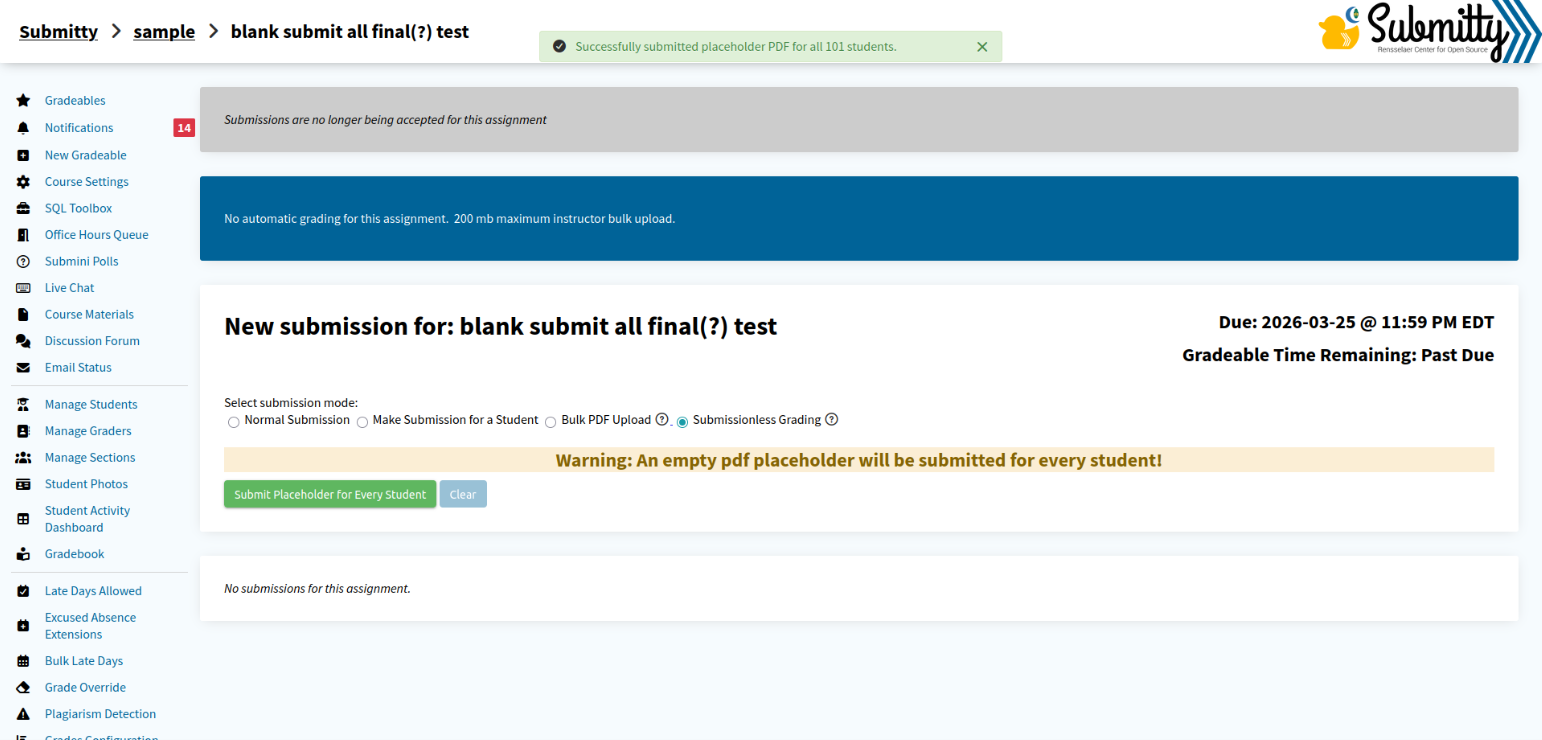
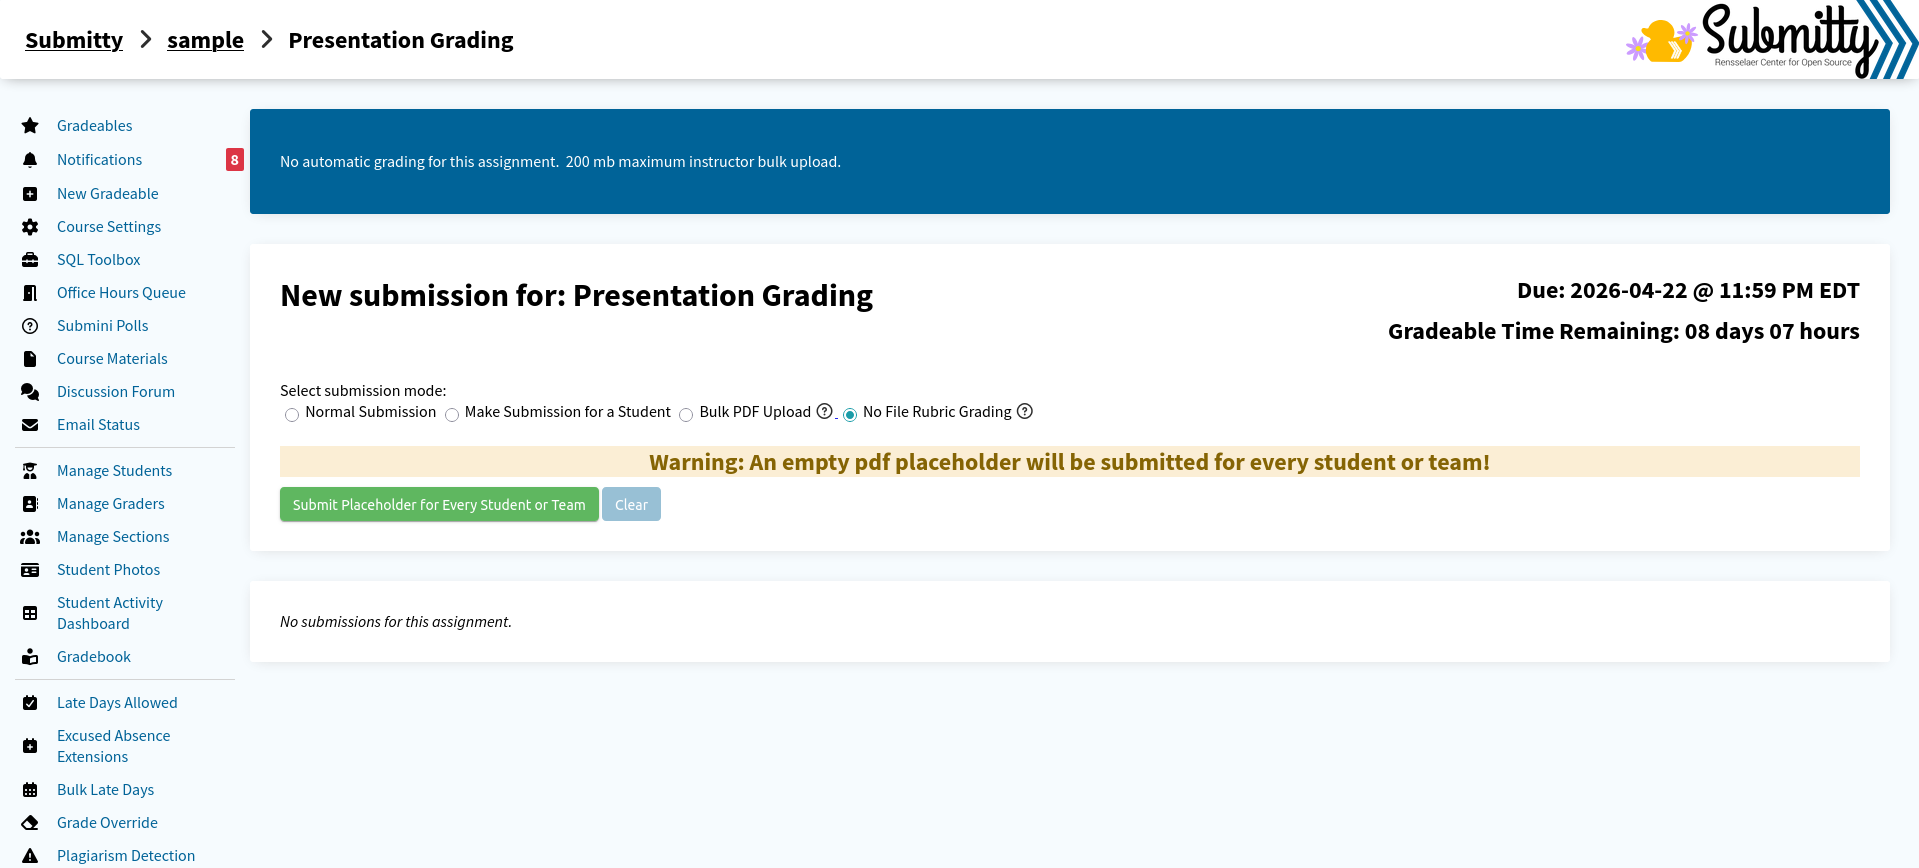
[Documentation:Submission] Team Info for No File Rubric Grading (#751)
Added team documentation on the page for the No File Rubric Grading
feature instructors have access to on Bulk Upload type gradeables. Team
functionality is being added in PR #12761 in the Submitty site.
https://github.com/Submitty/Submitty/pull/12761

Screenshot:
<img width="1920" height="923" alt="image"
src="https://github.com/user-attachments/assets/c78203f6-d2c2-48e9-934a-dbce94da9902"
/>

diff --git a/_docs/instructor/assignment_preparation/no_file_rubric_grading.md b/_docs/instructor/assignment_preparation/no_file_rubric_grading.md
@@ -35,6 +35,17 @@ previous submissions.
 
 ---
 
+## Team Gradeables
+
+Instructions for using this feature with Team Gradeables:
+
+1. **Create the Teams:** You must manually create the teams for the students by navigating to grade > edit teams from the gradeables page. 
+2. **Submission:** Once teams have been set, you may use the feature. The popup will now inform you are submitting for teams, and the success banner will state the number of teams that were submitted for. 
+3. **All other aspects of the feature are the same as above.**
+![](/images/instructor/assignment_preparation/no_file_teams.png){:width="800px"}
+
+---
+
 ## Grading
 
 Once the submissions have been processed, they can be graded like any other student submission. They will be listed as a new version under the student's version status. Further uses of the function (while uneccessary) will simply increment the version number.
@@ -45,4 +56,3 @@ Once the submissions have been processed, they can be graded like any other stud
 
 Ensure you are logged in as an Instructor level user.  
 Full grading access is required to use this feature. 
-There is currently no Team gradeable functionality for this feature. 
